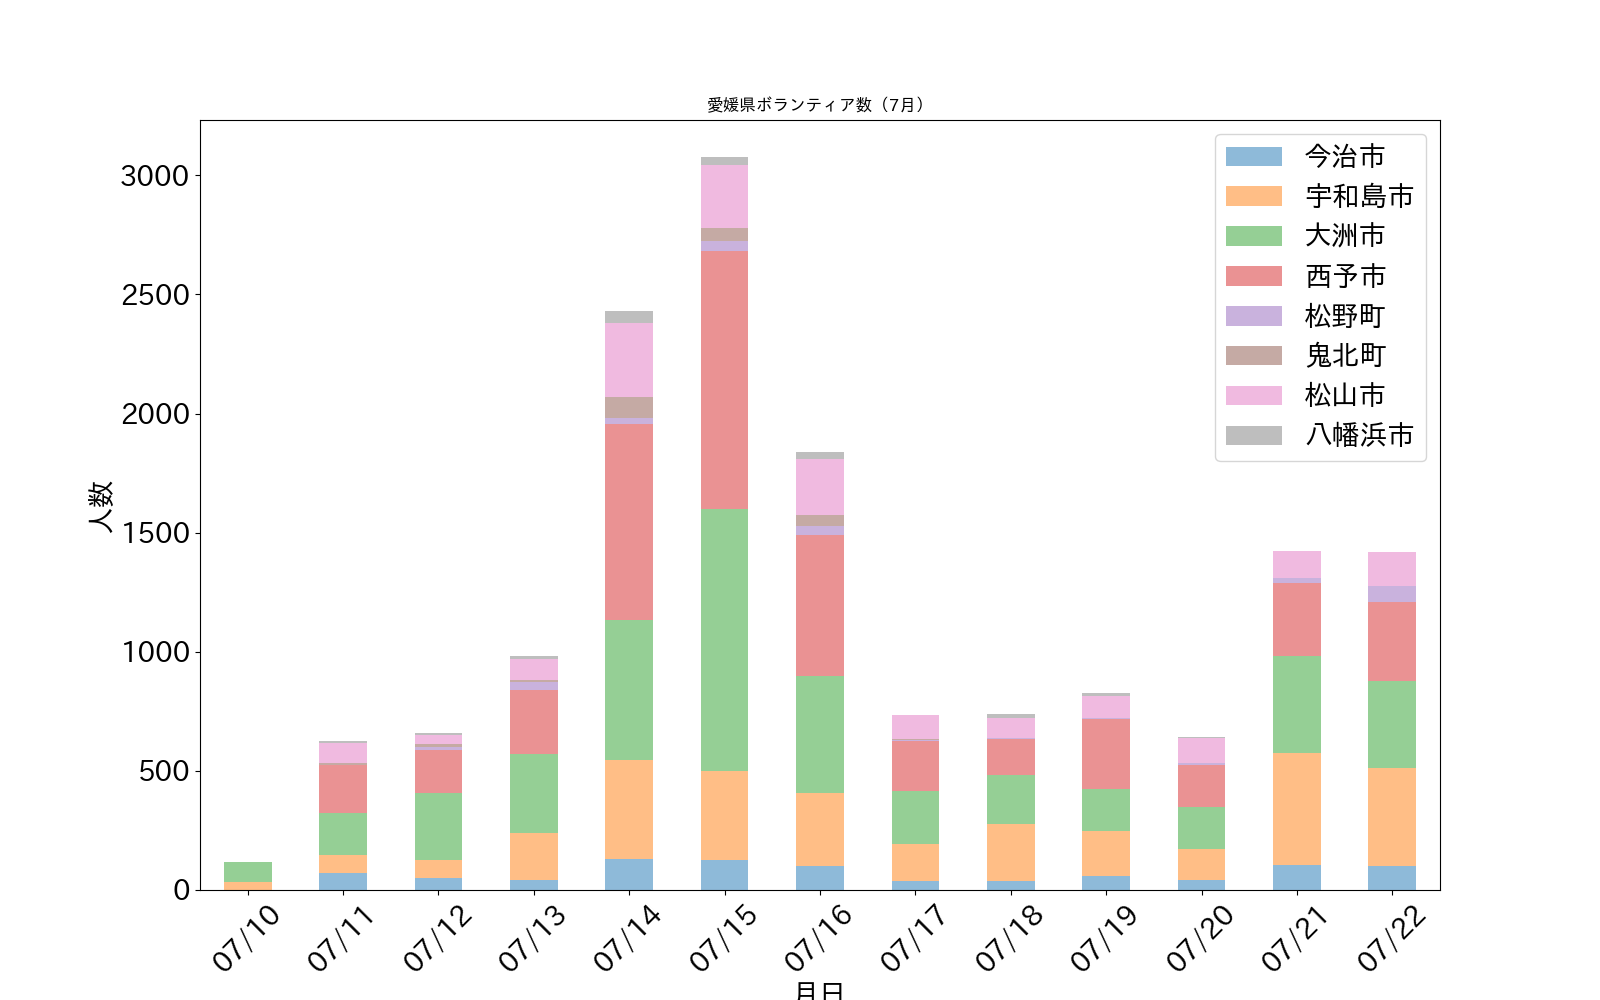
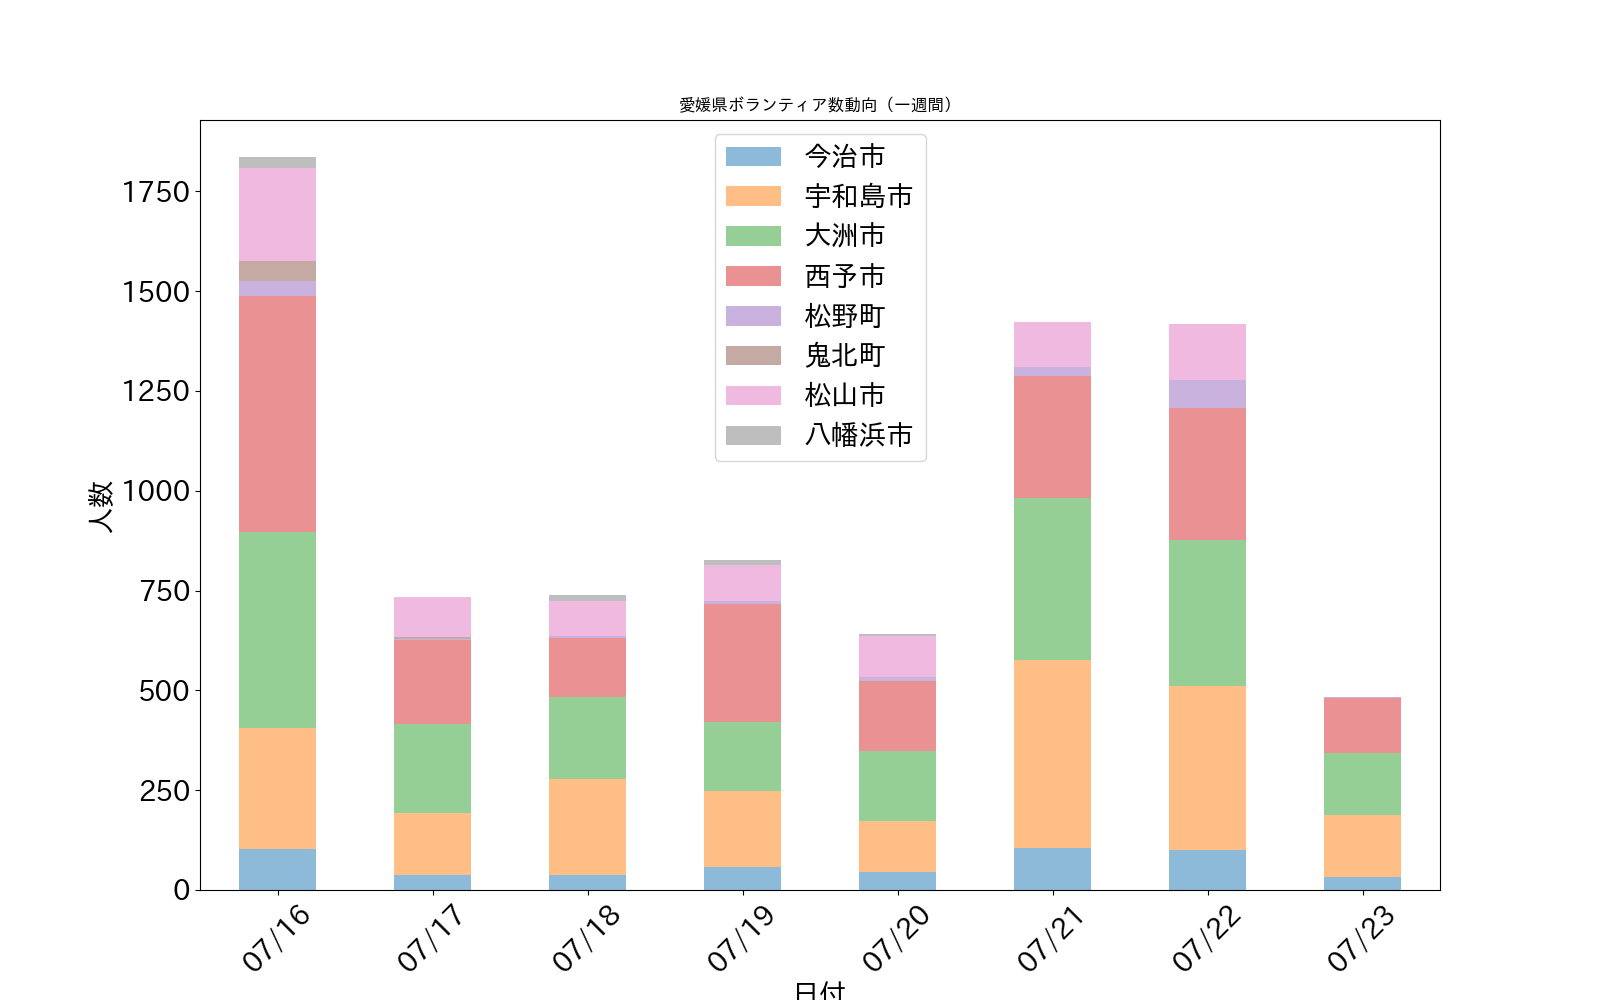
7/23の動向反映

Changed region(s): [[0.4062, 0.093, 0.9062, 1.0], [0.0625, 0.155, 0.4062, 0.961]]

diff --git a/_pages/volunteer_aggregation.md b/_pages/volunteer_aggregation.md
@@ -1,52 +1,43 @@
 ---
-title: 【愛媛県ボランティア数動向 （07/22版）】
+title: 【愛媛県ボランティア数集計（デイリー・地域別）07/23版）】
 description: 松山市社協、八幡浜市社協、愛媛災害支援センターが公開しているデータを元に、ボランティア数のグラフを作成・公開しています。
 permalink: /volunteer/aggregation/
 date: 2018-07-18 05:59:06 +0900
-last_modified_at: 2018-07-22 23:05:49 +0900
+last_modified_at: 2018-07-23 18:25:15 +0900
 sidebar:
   nav: volunteer_menu
 
 ---
-## 7/22分のデータを更新しました
-
-各社協、ボランティアセンターが公開している情報を元に、愛媛県内のボランティア数の一覧とグラフを公開しています。
-Google SpreadSheetによるデータは[こちら](https://docs.google.com/spreadsheets/d/1h-GFHoNa55P96wu_HNbPk899eN4HZcnu1T9q4eag8Uc/edit#gid=0)です。 [^1]
-
-## 週次傾向
-
-先週と比べて、被害が大きく分散している宇和島が800人ほど増加した反面、大洲、西予は500人ほど減少しています。今治、松山ともにボランティア数増加傾向にあります。
+## 【週毎のボランティア数動向】
 
 ![愛媛県内ボランティア数（週次）](/assets/images/volunteer_count_week.png)
 
-| 日付   |   今治市 |   宇和島市 |   大洲市 |   西予市 |   松野町 |   鬼北町 |   松山市 |   八幡浜市 |
-|:-------|---------:|-----------:|---------:|---------:|---------:|---------:|---------:|-----------:|
-| 07/10-15  |      419 |       1172 |     2562 |     2552 |      117 |      174 |      781 |        116 |
-| 07/16-22  |      484 |       1902 |     2040 |     2056 |      155 |       53 |      867 |         62 |
+| 日付                |   今治市 |   宇和島市 |   大洲市 |   西予市 |   松野町 |   鬼北町 |   松山市 |   八幡浜市 |
+|:--------------------|---------:|-----------:|---------:|---------:|---------:|---------:|---------:|-----------:|
+| 07/10-07/15 |      419 |       1172 |     2562 |     2552 |      117 |      174 |      781 |        116 |
+| 07/16-07/22 |      484 |       1902 |     2040 |     2056 |      155 |       53 |      867 |         62 |
+| 07/23-07/29 |       32 |        156 |      156 |      138 |        2 |        0 |        0 |          0 |
 
+## 【07/23含め過去一週間分のデータを更新】
 
-## 日次傾向
+各社協、ボランティアセンターが公開している情報を元に、愛媛県内のボランティア数の一覧とグラフを公開しています。データ数が増えてきたので過去８日以内の表示にしています。全データは[こちら](https://docs.google.com/spreadsheets/d/1h-GFHoNa55P96wu_HNbPk899eN4HZcnu1T9q4eag8Uc/edit#gid=0)にあります。 [^1]
 
-松野町は70名、今治、松山は100人以上、宇和島、大洲、西予も300人以上のボランティアの方に作業していただきました。
-社協とは別に草の根ボランティア団体や、NPOなどの支援も始まりましたので、実際にはこの人数よりも多いと考えられます。
-平日はまたボランティア数が減りますので、まだ収束には時間がかかりますが、一人一人の作業の積み重ねが復興につながります。
+## 傾向
 
-暑い日が続きますが、ボランティア時に気をつける[熱中症対策のイラストリーフレット](https://cheerup-ehime.github.io/volunteer/heatstroke-illustrated/)を作成しましたので、是非ご活用していただき、安全な作業をお願いします。熱射病対応チャートは要チェックです！！
+23日の松山市はボランティア作業はお休みで、24日は作業はあるそうです。宇和島は先週と同程度ですが、大洲、西予市が先週と比べてボランティアの数が減っています。時間が経過するにつれ、宇和島市の被害規模が明らかになってきています。ボランティアの方も、最も遠く、復興が遅れている宇和島市へ向かっていることが推測されます。
+
+暑い日が続きますが、ボランティア時に気をつける[熱中症対策のイラストリーフレット](https://cheerup-ehime.github.io/volunteer/heatstroke-illustrated/)を作成しましたので、是非ご活用ください。（https://cheerup-ehime.github.io/volunteer/heatstroke-illustrated/）
+
+**熱射病対応チャートは要チェックです！！**
+
 
 ![愛媛県内ボランティア数（日次）](/assets/images/volunteer_count.png)
-
 
 [^1]: 八幡浜市の7/10,17の情報は公開されていません。
 
 
 | 日付   |   今治市 |   宇和島市 |   大洲市 |   西予市 |   松野町 |   鬼北町 |   松山市 |   八幡浜市 |
 |:-------|---------:|-----------:|---------:|---------:|---------:|---------:|---------:|-----------:|
-| 07/10  |        0 |         35 |       82 |        0 |        0 |        0 |        0 |          0 |
-| 07/11  |       71 |         76 |      177 |      201 |        0 |        9 |       85 |          7 |
-| 07/12  |       50 |         74 |      284 |      180 |       13 |       12 |       38 |          8 |
-| 07/13  |       41 |        198 |      333 |      267 |       33 |        9 |       87 |         15 |
-| 07/14  |      131 |        415 |      587 |      823 |       27 |       88 |      309 |         50 |
-| 07/15  |      126 |        374 |     1099 |     1081 |       44 |       56 |      262 |         36 |
 | 07/16  |      102 |        305 |      491 |      591 |       37 |       50 |      232 |         29 |
 | 07/17  |       37 |        157 |      222 |      210 |        4 |        3 |      100 |          0 |
 | 07/18  |       37 |        241 |      205 |      149 |        4 |        0 |       88 |         14 |
@@ -54,6 +45,7 @@ Google SpreadSheetによるデータは[こちら](https://docs.google.com/spre
 | 07/20  |       44 |        128 |      175 |      177 |       10 |        0 |      102 |          5 |
 | 07/21  |      105 |        470 |      408 |      305 |       21 |        0 |      115 |          0 |
 | 07/22  |      101 |        411 |      365 |      330 |       71 |        0 |      141 |          0 |
+| 07/23  |       32 |        156 |      156 |      138 |        2 |        0 |        0 |          0 |
 
 ### 元データ
 
